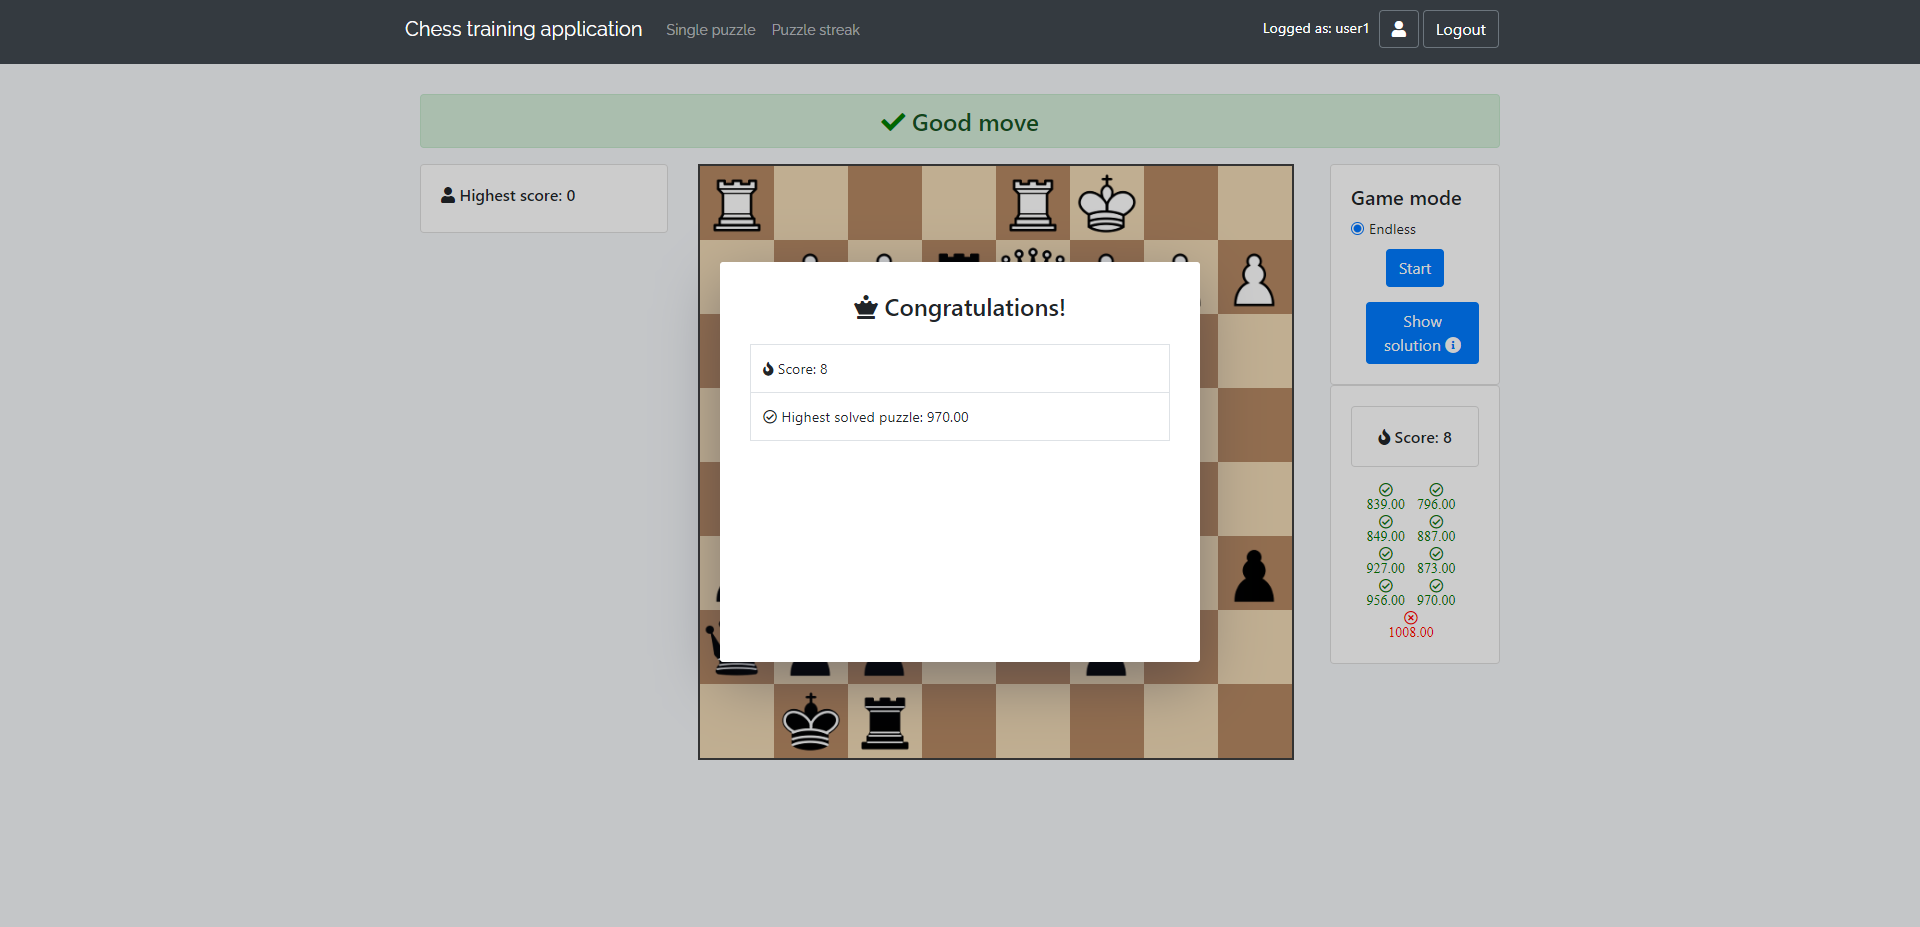
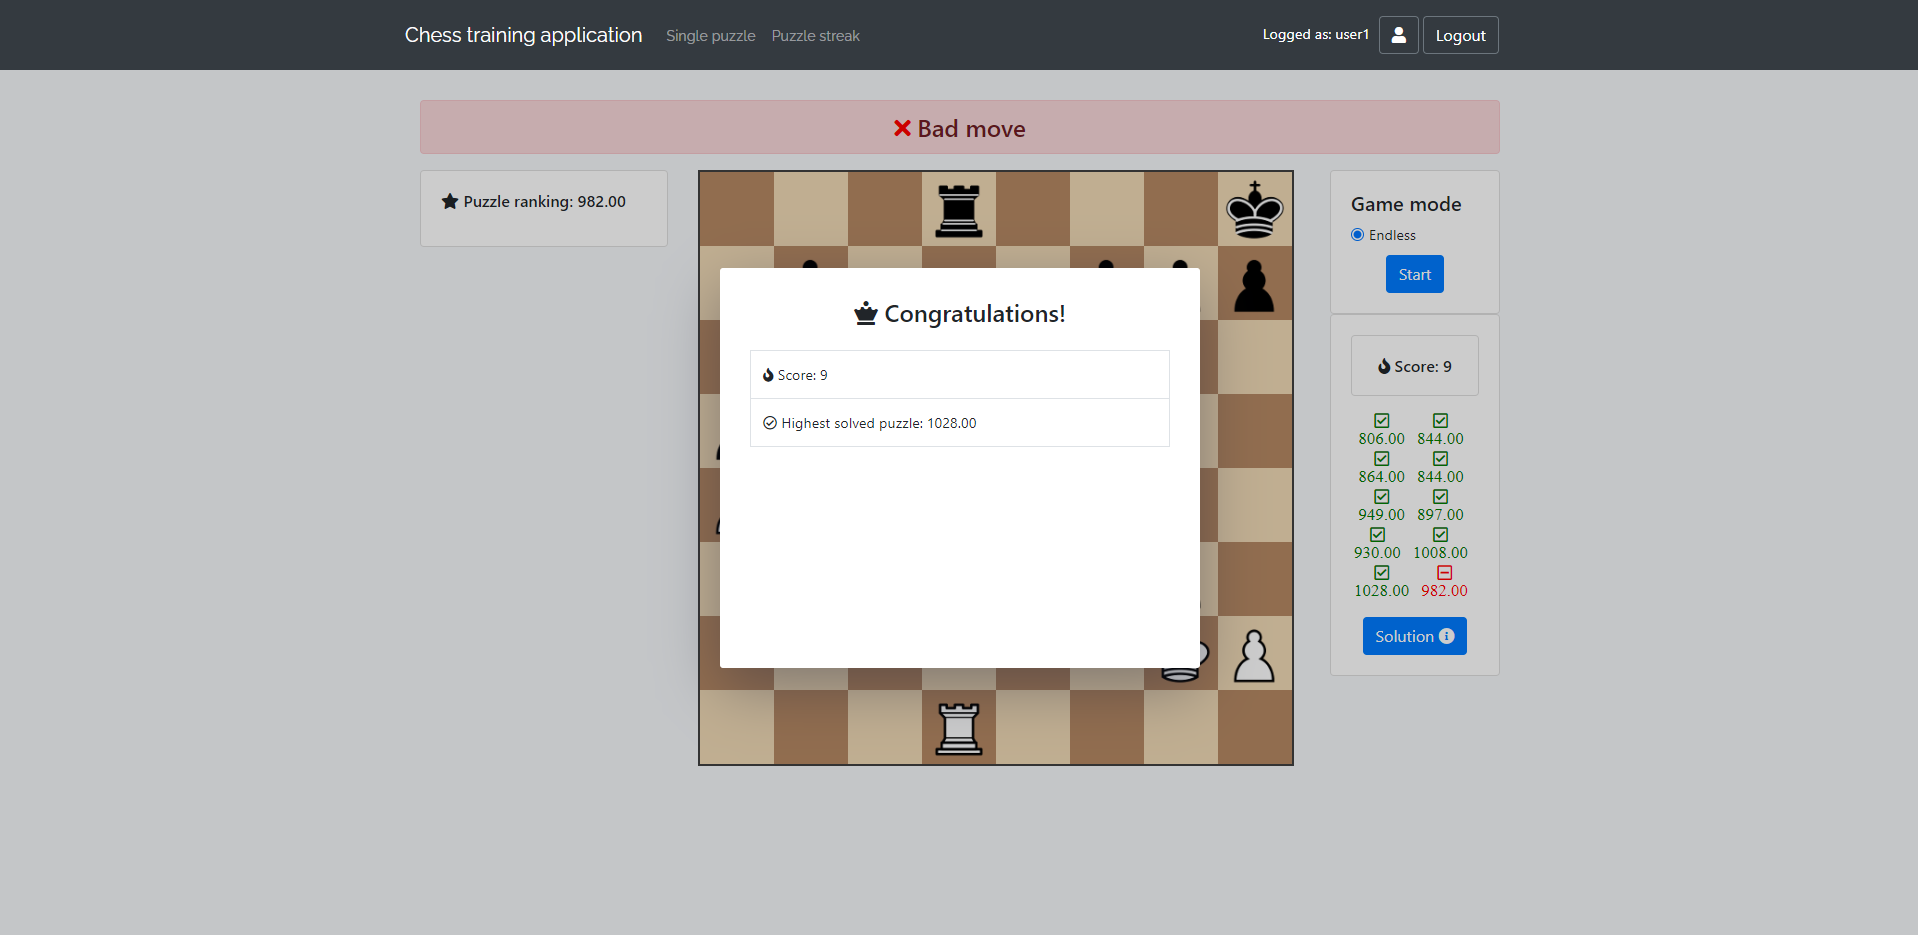
- visual improvements

diff --git a/assets/js/modules/functions.js b/assets/js/modules/functions.js
@@ -13,14 +13,6 @@ export function onDragStart(source, piece, position, orientation) {
     // exit if there are no moves available for this square
     if (moves.length === 0) return
 
-    // highlight the square they moused over
-    greySquare(source)
-
-    // highlight the possible squares for this piece
-    for (var i = 0; i < moves.length; i++) {
-        greySquare(moves[i].to)
-    }
-
     if (store.getters.game.game_over() === true ||
         (store.getters.game.turn() === 'w' && piece.search(/^b/) !== -1) ||
         (store.getters.game.turn() === 'b' && piece.search(/^w/) !== -1)) {
@@ -29,8 +21,6 @@ export function onDragStart(source, piece, position, orientation) {
 };
 
 export function onDrop(source, target) {
-    removeGreySquares()
-
     var playerMove = makeMove(source, target);
 
     if (playerMove)
@@ -48,7 +38,7 @@ export function onDrop(source, target) {
 export function onSnapEnd() {
     setTimeout(function(){
         store.getters.board.position(store.getters.game.fen());
-    }, 1000);
+    }, 500);
 };
 
 export function updateStatus() {
@@ -218,20 +208,6 @@ export function makeMove(from, to) {
     return move;
 }
 
-export function greySquare(square) {
-    var whiteSquareGrey = '#a9a9a9'
-    var blackSquareGrey = '#696969'
-
-    var $square = $('.square-' + square)
-
-    var background = whiteSquareGrey
-    if ($square.hasClass('black-3c85d')) {
-        background = blackSquareGrey
-    }
-
-    $square.css('background', background)
-}
-
 export function appendGoodMoveIconToSquare(square) {
     let span = document.createElement("span");
     span.className = 'icon-good-move';
@@ -260,10 +236,6 @@ export function appendBadMoveIconToSquare(square) {
 
 export function appendBadMoveClassSquare(square) {
     document.querySelector('.square-' + square).classList.add('bad-move-square');
-}
-
-export function removeGreySquares() {
-    $('.square-55d63').css('background', '')
 }
 
 export function removeGoodMoveIcons() {
@@ -328,10 +300,10 @@ export async function checkPlayerSolution(playerMove, solutionMove) {
         });
 
         store.state.showSolutionFlag = true;
+        store.dispatch('setProgressInfo', false);
 
         //single puzzle
         if (store.getters.gameMode === GameModeDictionary[0].id) {
-            store.dispatch('setProgressInfo', false);
             store.dispatch('changePlayerRatingInTemplate', ratings.newPlayerRanking)
             store.dispatch('changePuzzleRankingInTemplate', ratings.newPuzzleRanking)
         }

diff --git a/assets/js/components/countStreakComponent.vue b/assets/js/components/countStreakComponent.vue
@@ -8,24 +8,33 @@
 
     <div class="mt-3 text-center">
       <span class="text-center mr-2" v-for="item in puzzleSolvedArray">
-        <i v-if="item.solved == 1" style="color:green; font-size: 14px;"  class="far fa-check-circle">
+        <i v-if="item.solved == 1" style="color:green; font-size: 17px;"  class="far fa-check-square">
           <br> {{ item.puzzleRanking }}
         </i>
-        <i v-if="item.solved == 0" class="far fa-circle" style="font-size: 14px">
+        <i v-if="item.solved == 0" class="far fa-square" style="font-size: 17px">
           <br> {{ item.puzzleRanking }}
         </i>
-        <i v-if="item.solved == -1"  style="color:red; font-size: 14px;" class="far fa-times-circle">
+        <i v-if="item.solved == -1"  style="color:red; font-size: 17px;" class="far fa-minus-square">
           <br> {{ item.puzzleRanking }}
         </i>
       </span>
+
+      <show-solution-component @showsolution="showsolution"></show-solution-component>
     </div>
   </div>
 </template>
 
 <script>
 import store from '../store/store.js';
+import PuzzleTheme from "./puzzleTheme";
+import showSolutionComponent from "./showSolutionComponent";
+import * as Func from "../modules/functions";
 
 export default{
+  components: {
+    PuzzleTheme,
+    'show-solution-component': showSolutionComponent,
+  },
   data: () => ({
 
   }),
@@ -40,7 +49,9 @@ export default{
     }
   },
   methods: {
-
+    showsolution() {
+      Func.showSolutionFunc();
+    },
   },
 }
 

diff --git a/assets/js/components/startStreakComponent.vue b/assets/js/components/startStreakComponent.vue
@@ -7,7 +7,6 @@
     </div>
     <div class="mt-2 text-center">
       <button v-if="isVisible" v-on:click="fetchPuzzles" class="btn btn-primary">Start</button>
-      <show-solution-component @showsolution="showsolution"></show-solution-component>
     </div>
   </div>
 </template>
@@ -16,14 +15,8 @@
 import * as ajaxFunc from '../modules/ajaxCalls.js';
 import store from '../store/store.js';
 import * as Func from "../modules/functions";
-import PuzzleTheme from "./puzzleTheme";
-import showSolutionComponent from "./showSolutionComponent";
 
 export default{
-  components: {
-    PuzzleTheme,
-    'show-solution-component': showSolutionComponent,
-  },
   data: () => ({
 
   }),
@@ -33,14 +26,12 @@ export default{
             (response) => {
               store.state.showSolutionFlag = false;
               store.dispatch('resetPuzzleAndGameValues');
+              store.commit('clearFinalScore');
               store.commit('clearSolvedPuzzles');
               store.commit('setPuzzleSet', response);
               store.dispatch('loadNextPuzzleFromSet');
             }
         );
-    },
-    showsolution() {
-      Func.showSolutionFunc();
     },
   },
   computed: {

diff --git a/assets/js/store/store.js b/assets/js/store/store.js
@@ -238,6 +238,9 @@ const store = new Vuex.Store({
         incrementPuzzleStreakScore(state) {
             state.finalStreakScore = state.finalStreakScore + 1;
         },
+        clearFinalScore(state) {
+            state.finalStreakScore = 0;
+        },
         setHighestSolvedPuzzle(state, puzzleRanking) {
             state.highestSolvedPuzzleRanking = puzzleRanking;
         },
@@ -342,7 +345,7 @@ const store = new Vuex.Store({
             setTimeout(function(){
                 state.dispatch('changeCfg', {fen: newFen, draggable: true});
                 MyFn.updateStatus();
-            }, 2000);
+            }, 1000);
         },
         makeMove(state, payload) {
             return new Promise((resolve, reject) => {

diff --git a/assets/js/components/nextPosition.vue b/assets/js/components/nextPosition.vue
@@ -9,7 +9,7 @@
       <board-theme-component></board-theme-component>
     </div>
     <div class="row">
-      <button type="button" class="btn btn-primary next-position-button" @click="$emit('getposition')">Next position <i class="fas fa-arrow-right"></i></button>
+      <button type="button" class="btn btn-primary next-position-button mr-3" @click="$emit('getposition')">Next position <i class="fas fa-arrow-right"></i></button>
       <show-solution-component @showsolution="showsolution"></show-solution-component>
     </div>
   </div>

diff --git a/assets/js/components/showSolutionComponent.vue b/assets/js/components/showSolutionComponent.vue
@@ -1,5 +1,5 @@
 <template>
-      <button type="button" class="btn btn-primary solution-position-button" @click="$emit('showsolution')" v-if="showSolutionFlag">Show solution <i class="fas fa-info-circle"></i></button>
+      <button type="button" class="btn btn-primary solution-position-button" @click="$emit('showsolution')" v-if="showSolutionFlag">Solution <i class="fas fa-info-circle"></i></button>
 </template>
 
 <script>

diff --git a/assets/js/puzzle-streak.js b/assets/js/puzzle-streak.js
@@ -41,6 +41,9 @@ appMainComponent = new Vue({
     computed: {
         modal () {
             return store.state.showEndStreakDialog;
+        },
+        puzzleRanking() {
+            return store.getters.puzzleRankingValue;
         }
     },
     watch: {

diff --git a/assets/css/custom.css b/assets/css/custom.css
@@ -60,7 +60,6 @@
     margin-top: 15px;
 }
 .solution-position-button {
-    margin-left: 15px;
     margin-top: 15px;
 }
 .puzzle-theme-row {
